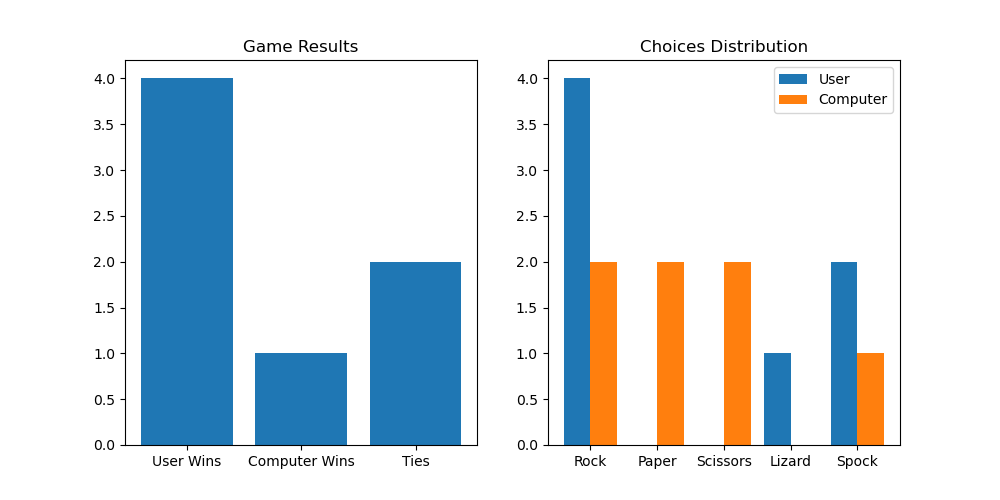
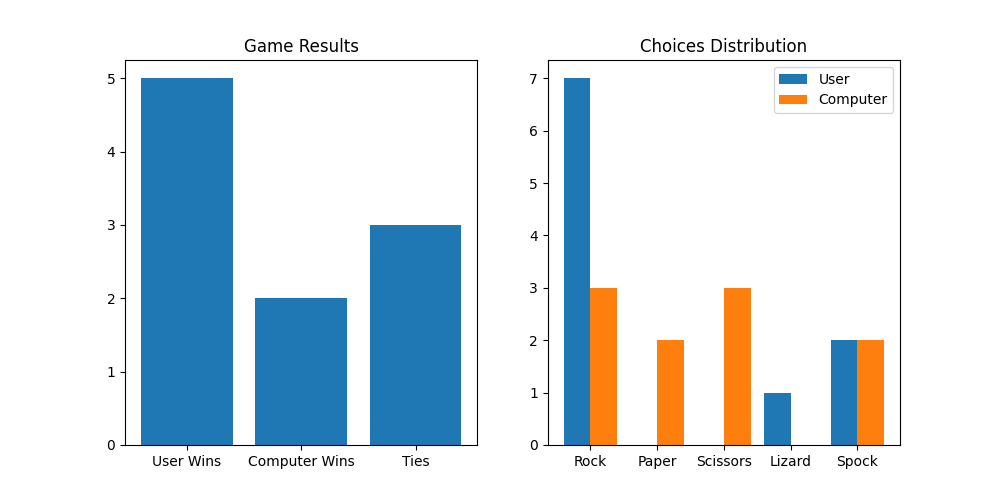
Enhance Notas.md with detailed prompts for game implementation and API usage; update requirements.txt by removing sqlite3; update game_stats.db and stats.png files.

diff --git a/Notas.md b/Notas.md
@@ -1,83 +1,127 @@
 # Notas
 
-## prompts para resolver el ejercicio
+## Prompts para resolver el ejercicio
 
-1.  prompt describir someramente el juego
+<details>
+<summary>Prompts para resolver el ejecicio</summary>
 
-```yml
-quiero crear el juego de piedra papel o tijera con dos elementos mas lizard y spock. piedra pierde ante spock, papel gana a spock, tijera gana a lizard y lizard gana a papel... el juego será en la terminal $ Choose your option:
+- prompt describir someramente el juego
 
-- Rock
-- Paper
-- Scissors
-- Lizard
-- Spock
-```
+  ```yml
+  quiero crear el juego de piedra papel o tijera con dos elementos mas lizard y spock. piedra pierde ante spock, papel gana a spock, tijera gana a lizard y lizard gana a papel... el juego será en la terminal $ Choose your option:
 
-2. prompt crear test de covertura
+  - Rock
+  - Paper
+  - Scissors
+  - Lizard
+  - Spock
+  ```
 
-```yml
-@workspace /tests Implement unit tests using pytest or any testing module of your choice. Try to aim for 100% coverage
-```
+- prompt crear test de covertura
 
-3. Me pide habilitar algo
+  ```yml
+  @workspace /tests Implement unit tests using pytest or any testing module of your choice. Try to aim for 100% coverage
+  ```
+
+- Me pide habilitar algo
   - `@workspace /tests Accept: "Configure Test Framework"`
 
-3. prompt insisto en la creación de test
+- prompt insisto en la creación de test
   - `implementa ahora los test`
 
-4. prompt crear una api
+- prompt crear una api
 
-```yml
-Adding a REST API Turn it into a REST API E.g. sending a POST /rock (or json payload) should return a 200 OK response with the result in the body
-```
+  ```yml
+  Adding a REST API Turn it into a REST API E.g. sending a POST /rock (or json payload) should return a 200 OK response with the result in the body
+  ```
 
-5. prompt extra, para crear módulo de estadísticas
+  - Para ejecutar un ejemplo de la api del juego
 
-```yml
-puedes hacer un módulo que vaya almacenado las estadísticas de cuantas veces gana cada uno y que opciones han salido más, ya sea jugando desde consola o desde la api, y muestras una gráfica el resultado
-```
+    - `curl -X POST -H "Content-Type: application/json" -d '{"choice": 1}' http://127.0.0.1:5000/play`
+    - `curl -X POST -H "Content-Type: application/json" -d '{"choice": 2}' http://127.0.0.1:5000/play`
+    - `curl -X POST -H "Content-Type: application/json" -d '{"choice": 3}' http://127.0.0.1:5000/play`
+    - `curl -X POST -H "Content-Type: application/json" -d '{"choice": 4}' http://127.0.0.1:5000/play`
+    - `curl -X POST -H "Content-Type: application/json" -d '{"choice": 5}' http://127.0.0.1:5000/play`
 
-6. prompt extra para tener entorno
+  - la salida se vería algo así:
 
-`quiero crear un entorno para instalar las dependencias`
+    ```json
+    {
+      "computer_choice": "Scissors", 
+      "result": "You win!", 
+      "user_choice": "Rock"
+    }
+    ```
+
+- prompt extra, para crear módulo de estadísticas
+
+  ```yml
+  puedes hacer un módulo que vaya almacenado las estadísticas de cuantas veces gana cada uno y que opciones han salido más, ya sea jugando desde consola o desde la api, y muestras una gráfica el resultado
+  ```
+
+- Para ejecutar un ejemplo de la api del juego
+
+  - `curl http://127.0.0.1:5000/stats`
+
+  - mostrará una salida como esta
+
+    ```json
+    {
+      "computer_wins": 2, 
+      "image": "stats.png", 
+      "ties": 3, 
+      "user_wins": 5
+    }
+    ```
+
+  - y podrás ver la imagen que ha generado en este caso sería esta ![gráfica](stats.png)
+
+- prompt extra para tener entorno
+
+  `quiero crear un entorno para instalar las dependencias`
+
+</details>
 
 ## Generar un fichero requirements.txt
 
-Guardar las dependencias en un archivo requirements.txt:
+<details>
+<summary>Generar fichero requirements</summary>
 
-Ejecuta el siguiente comando para guardar las dependencias instaladas en un archivo requirements.txt:
+- Guardar las dependencias en un archivo requirements.txt:
 
-`pip freeze > requirements.txt`
+- Ejecuta el siguiente comando para guardar las dependencias instaladas en un archivo requirements.txt:
 
-El archivo requirements.txt debería verse algo así:
+  `pip freeze > requirements.txt`
 
-```ini
-click==8.0.1
-Flask==2.0.1
-itsdangerous==2.0.1
-Jinja2==3.0.1
-MarkupSafe==2.0.1
-matplotlib==3.4.2
-numpy==1.21.0
-Pillow==8.2.0
-pyparsing==2.4.7
-python-dateutil==2.8.1
-six==1.16.0
-sqlite3==0.0.1
-Werkzeug==2.0.1
-```
+- El archivo requirements.txt debería verse algo así:
+
+  ```ini
+  click==8.0.1
+  Flask==2.0.1
+  itsdangerous==2.0.1
+  Jinja2==3.0.1
+  MarkupSafe==2.0.1
+  matplotlib==3.4.2
+  numpy==1.21.0
+  Pillow==8.2.0
+  pyparsing==2.4.7
+  python-dateutil==2.8.1
+  six==1.16.0
+  Werkzeug==2.0.1
+  ```
 
 - Ahora, cualquier persona que quiera replicar tu entorno puede hacerlo siguiendo estos pasos:
   1. Clonar el repositorio o copiar los archivos del proyecto.
-    - `git clone https://github.com/copilot-workshops/copilot-rock-paper-scissors`
+     - `git clone https://github.com/copilot-workshops/copilot-rock-paper-scissors`
   2. Crear y activar un entorno virtual.
-    - `python3 -m venv venv`
-    - activar el entorno en Windows
+     - `python3 -m venv venv`
+     - activar el entorno en Windows
         - `source venv/Scripts/activate`
-    - activar el entorno en Windows
+     - activar el entorno en Windows
         - `.\venv\Scripts\activate`
   3. Instalar las dependencias desde el archivo requirements.txt:
-    - `pip install -r requirements.txt` 
+     - `pip install -r requirements.txt`
 
-Esto asegurará que todas las dependencias necesarias estén instaladas en el entorno virtua
+- Esto asegurará que todas las dependencias necesarias estén instaladas en el entorno virtual
+
+</details>
